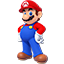
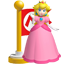
Fin de partie image princesses

diff --git a/src/vue/MazeGameGUI.java b/src/vue/MazeGameGUI.java
@@ -649,7 +649,13 @@ public class MazeGameGUI extends JFrame implements MouseListener, MouseMotionLis
 						}
 					}
 				}
-				else {
+				if(this.mazeGameControler.getCurrentScorePlayer() == this.mazeGameControler.getScoreMax()){
+					Treasure treasurePrincess = mazeGameControler.currentTreasureToCatch();
+					JLabel princessIHM = new JLabel (new ImageIcon(MazeImageProvider.getImageFile(treasurePrincess.getTreasureId())));
+					princessIHM.setPreferredSize(new Dimension(100, 100));
+					princessIHM.setBounds(0, 0, 100, 100);
+					princessIHM.setOpaque(false);
+					((JLayeredPane)this.mazeBoard.getComponent(treasurePrincess.getTreasureX() + 7*treasurePrincess.getTreasureY())).add(princessIHM, TREASURE_LAYER);
 					if(destinationX == CoordInitialeX && destinationY == CoordInitialeY){
 						int n = JOptionPane.showOptionDialog(frame,
 								"Félicitation, le vainqueur de cette bataille acharnée est " + nameJeuCourant + ". Allez retrouver votre dulcinée !",
@@ -688,18 +694,17 @@ public class MazeGameGUI extends JFrame implements MouseListener, MouseMotionLis
 
 				if(treasureToCatch != null){
 					if(treasureToCatch.getTreasureId() == 25){
-						imageTreasureToCatch = new ImageIcon(MazeImageProvider.getImageFile(25));
-					}else if(treasureToCatch.getTreasureId() == 25){
-						imageTreasureToCatch = new ImageIcon(MazeImageProvider.getImageFile(26));
-					}else if(treasureToCatch.getTreasureId() == 25){
-						imageTreasureToCatch = new ImageIcon(MazeImageProvider.getImageFile(27));
-					}else if(treasureToCatch.getTreasureId() == 25){
-						imageTreasureToCatch = new ImageIcon(MazeImageProvider.getImageFile(28));
-					}
-					imageTreasureToCatch = new ImageIcon(MazeImageProvider.getImageFile(treasureToCatch.getTreasureId()));
-				}/*else{
-					imageTreasureToCatch = new ImageIcon(MazeImageProvider.getImageFile(-1));
-				}*/
+						imageTreasureToCatch = new ImageIcon(MazeImageProvider.getImageFile(29));
+					}else if(treasureToCatch.getTreasureId() == 26){
+						imageTreasureToCatch = new ImageIcon(MazeImageProvider.getImageFile(30));
+					}else if(treasureToCatch.getTreasureId() == 27){
+						imageTreasureToCatch = new ImageIcon(MazeImageProvider.getImageFile(31));
+					}else if(treasureToCatch.getTreasureId() == 28){
+						imageTreasureToCatch = new ImageIcon(MazeImageProvider.getImageFile(32));
+					}else{
+						imageTreasureToCatch = new ImageIcon(MazeImageProvider.getImageFile(treasureToCatch.getTreasureId()));
+					}	
+				}
 				//On cree la zone pour la pile de cartes
 				tresorToCatch.setIcon(imageTreasureToCatch);
 				mazeAltered = false;
@@ -848,31 +853,32 @@ public class MazeGameGUI extends JFrame implements MouseListener, MouseMotionLis
 			//Re-creaction des tresors
 			for (TreasureIHMs treasureIHM : updatedList) {
 				// on récupère le trésor
-				this.layeredPane = (JLayeredPane) this.mazeBoard.getComponent(7
+					this.layeredPane = (JLayeredPane) this.mazeBoard.getComponent(7
 						* treasureIHM.getTreasureY() + treasureIHM.getTreasureX());
 
-				//On le supprime
-				if (this.layeredPane.getComponentsInLayer(TREASURE_LAYER).length != 0) {
-					for (int i = 0; i < this.layeredPane
+					//On le supprime
+					if (this.layeredPane.getComponentsInLayer(TREASURE_LAYER).length != 0) {
+						for (int i = 0; i < this.layeredPane
 							.getComponentsInLayer(TREASURE_LAYER).length; i++) {
-						this.layeredPane.remove(this.layeredPane
+							this.layeredPane.remove(this.layeredPane
 								.getComponentsInLayer(TREASURE_LAYER)[i]);
+						}
 					}
-				}
 
-				//On recrée le trésor
-				treasure = new JLabel(new ImageIcon(
+					//On recrée le trésor
+					treasure = new JLabel(new ImageIcon(
 						MazeImageProvider.getImageFile(treasureIHM.getTreasureId())));
-				treasure.setPreferredSize(new Dimension(100, 100));
-				treasure.setBounds(0, 0, 100, 100);
-				treasure.setOpaque(false);
-				// TODO moche ajouter tests
-				((JLayeredPane) this.mazeBoard.getComponent(treasureIHM
+				
+					treasure.setPreferredSize(new Dimension(100, 100));
+					treasure.setBounds(0, 0, 100, 100);
+					treasure.setOpaque(false);
+					// TODO moche ajouter tests
+					((JLayeredPane) this.mazeBoard.getComponent(treasureIHM
 						.getTreasureX() + 7 * treasureIHM.getTreasureY())).add(
 						treasure, TREASURE_LAYER);
+				}
+				this.treasureIHMs = updatedList;
 			}
-			this.treasureIHMs = updatedList;
-		}
 		// si mise à jour des couloirs
 		else if(((LinkedList<CouloirIHM>)arg).size() > 0 && ((LinkedList<CouloirIHM>)arg).getFirst() instanceof CouloirIHM) {
 			List<CouloirIHM> updatedList = (List<CouloirIHM>) arg;

diff --git a/src/model/Plateau.java b/src/model/Plateau.java
@@ -10,9 +10,19 @@ import tools.MazeTreasureFactory;
 
 public class Plateau implements BoardGames {
 	public Plateau(int nbPlayer) {
-		this.treasures = MazeTreasureFactory.newTreasure();
+		List<Treasures> treasures = new LinkedList<>();
 		//Liste correspondant à la pioche du jeu
-		this.treasureToDraw = new LinkedList<>(this.treasures);
+		this.treasureToDraw = new LinkedList<>();
+		this.treasures = new LinkedList<Treasures>();
+		
+		treasures = MazeTreasureFactory.newTreasure();
+		for(Treasures treasure : treasures){
+			if(treasure.getTreasureId() < 25){
+				treasureToDraw.add((Treasure) treasure);
+				this.treasures.add((Treasure) treasure);
+			}
+		}
+		
 		//Score maximum que chaque joueur doit atteindre
 		//scoreMax = 24/nbPlayer;
 		scoreMax = 1;
@@ -1370,12 +1380,14 @@ public class Plateau implements BoardGames {
 		this.jeuCourant.setTreasureToCatch(treasureToCatch);
 	}
 
-	public boolean treasureCatched(Treasure treasureCatched){
-		if(this.jeuCourant.addTreasureCatched(treasureCatched)){
-			this.treasures.remove(treasureCatched);
+	public boolean treasureCatched(Treasure treasuresCatched){
+		if(this.jeuCourant.addTreasureCatched(treasuresCatched)){
+			this.treasures.remove(treasuresCatched);
 			this.jeuCourant.setTreasureToCatch(null);
 			if(this.jeuCourant.getScorePlayer() == getScoreMax()){
-				this.jeuCourant.setPrincessToCatch();
+				Treasure princess = this.jeuCourant.getPrincessToCatch();
+				this.jeuCourant.setTreasureToCatch(princess);
+				this.treasures.add(jeuCourant.getTreasureToCatch());
 			}
 			return true;
 		}else{
@@ -1413,10 +1425,6 @@ public class Plateau implements BoardGames {
 	
 	public int getGreenPlayerScore() {
 		return this.jeuVert.getScorePlayer();
-	}
-
-	public boolean setPrincessToCatch(){
-		return this.jeuCourant.setPrincessToCatch();
 	}
 	
 	private int scoreMax = 0;

diff --git a/src/tools/MazeImageProvider.java b/src/tools/MazeImageProvider.java
@@ -66,9 +66,7 @@ public class MazeImageProvider {
 		String ret, key, value, path; 
 		ret = null;
 		key = pieceType;
-		//System.out.println(key);
 		value = mapImageTresorsCard.get(key);
-		//System.out.println(value);
 		File g = new File("");
 		path = "/src/images/carte/";
 		ret = g.getAbsolutePath() + path + value;
@@ -96,8 +94,13 @@ public class MazeImageProvider {
 	}
 	
 	public static String getImageFile(int treasureID){
-		String ret, value, path;
-		value = mapImageTreasures.get(treasureID);
+		String ret, value = "", path;
+		if(mapImageTreasures.get(treasureID) != null){
+			value = mapImageTreasures.get(treasureID);
+		//Si image de princess pour carte
+		}else if(treasureID > 28){
+			value = "treasure_" + Integer.toString(treasureID) + ".png";
+		}
 		File g = new File("");
 		path = "/src/images/treasures/";
 		ret = g.getAbsolutePath()+path+value;

diff --git a/src/model/Jeu.java b/src/model/Jeu.java
@@ -117,7 +117,7 @@ public class Jeu implements Game {
 	}
 	
 	public Treasure getTreasureToCatch() {
-		return this.treasureToCatch;
+		return treasureToCatch;
 	}
 
 	public void setTreasureToCatch(Treasure treasureToCatch) {
@@ -159,7 +159,7 @@ public class Jeu implements Game {
 		return name;
 	}
 	
-	public boolean setPrincessToCatch(){
+	public Treasure getPrincessToCatch(){
 		String name = getNamePlayer();
 		int coordPrincessX = this.coordInitiale.x;
 		int coordPrincessY = this.coordInitiale.y;
@@ -173,11 +173,10 @@ public class Jeu implements Game {
 		}else if(name == "Toad"){
 			id = 28;
 		}else{
-			return false;
+			return null;
 		}
 		Treasure princess = new Treasure(coordPrincessX, coordPrincessY, id, "TreasureFixed", false); 
-		setTreasureToCatch(princess);
-		return true;
+		return princess;
 	}
 	
 	private List<Pieces> pieces;

diff --git a/src/tools/MazeTreasureFactory.java b/src/tools/MazeTreasureFactory.java
@@ -40,8 +40,8 @@ public class MazeTreasureFactory {
 		
 		//Si objets fixe, on recupere les coordonnees ecrites dans MazeTreasurePos
 		//Sinon, on recupere une piece amovible aleatoirement parmis la liste
-		for(int i = 0; i < 24; i++){
-			if(MazeTreasurePos.values()[i].type == "TreasureFixed"){
+		for(int i = 0; i < MazeTreasurePos.values().length; i++){
+			if(MazeTreasurePos.values()[i].type.equals("TreasureFixed")){
 				//Creation d'un tresor a une position fixe
 				Treasure theTreasure = new Treasure(MazeTreasurePos.values()[i].coord.x,
 						MazeTreasurePos.values()[i].coord.y, MazeTreasurePos.values()[i].id,MazeTreasurePos.values()[i].type, false);

diff --git a/src/tools/MazeTreasurePos.java b/src/tools/MazeTreasurePos.java
@@ -28,7 +28,11 @@ public enum MazeTreasurePos {
 	NUAGE_ZAP(21, "TreasureMoveable", new Coord(0,0)),
 	FLEUR_GLACE(22, "TreasureMoveable", new Coord(0,0)),
 	BLOC_POW(23, "TreasureMoveable", new Coord(0,0)),
-	DOUBLE_CERISE(24, "TreasureMoveable", new Coord(0,0));
+	DOUBLE_CERISE(24, "TreasureMoveable", new Coord(0,0)),
+	PEACH(25, "TreasureFixed", new Coord(0,0)),
+	DAISY(26, "TreasureFixed", new Coord(6,6)),
+	BIRDO(27, "TreasureFixed", new Coord(6,0)),
+	TOADETTE(28, "TreasureFixed", new Coord(0,6));
 	
 	public int id;
 	public String type;

diff --git a/src/model/observable/MazeGame.java b/src/model/observable/MazeGame.java
@@ -116,8 +116,6 @@ public class MazeGame extends Observable implements BoardGames{
 	
 	public boolean treasureCatchedPlateau(Treasure treasureCatched){
 		boolean treasureHasBeenCatched = this.plateau.treasureCatched(treasureCatched);
-		System.out.println("tresor a ete recupere : " + treasureHasBeenCatched);
-		System.out.println(treasureCatched);
 		this.notifyObservers(plateau.getTreasuresIHMs()); 
 		return treasureHasBeenCatched;
 	}

diff --git a/src/model/Treasure.java b/src/model/Treasure.java
@@ -5,4 +5,13 @@ public class Treasure extends AbstractTreasure {
 	public Treasure(int x, int y, int id, String type, boolean isCatched) {
 		super(x, y, id, type, isCatched);
 	}
+	public Treasure(Treasure treasure) {
+		super(
+				treasure.getTreasureX(),
+				treasure.getTreasureY(),
+				treasure.getTreasureId(),
+				new String(treasure.getTreasureType()),
+				treasure.isCatched()
+		);
+	}
 }
